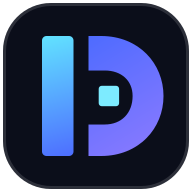
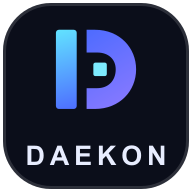
feat: a logó most mindenhol tartalmazza a DAEKON nevet
Preloader: gradiens DAEKON felirat a jel alatt. Inkbreak-manifesztó:
teljes lockup (jel + név) a puszta jel helyett. Favicon és alkalmazás-
ikonok: egymás alá rendezett lockup (split-D + DAEKON szó), ICO 16/32/48
rétegekkel újragenerálva.

🤖 Generated with Codebuff

Changed region(s): [[0.125, 0.125, 0.875, 0.875]]

diff --git a/src/App.tsx b/src/App.tsx
@@ -17,7 +17,7 @@ import {
   Tilt,
 } from "./components/fx/fx";
 import { useClock } from "./hooks/useClock";
-import { BrandMark, LogoMark } from "./brand/Logo";
+import { BrandMark } from "./brand/Logo";
 import { QuoteAssistant } from "./components/QuoteAssistant/QuoteAssistant";
 import { useScrollSpy } from "./hooks/useScrollSpy";
 import "./App.css";
@@ -327,7 +327,7 @@ export function App() {
         {/* -------------------------------------------- INK MANIFESTO */}
         <section className="inkbreak">
           <span className="inkbreak__mark" aria-hidden="true">
-            <LogoMark size={30} />
+            <BrandMark size={24} />
           </span>
           <h2 className="inkbreak__title">
             <Lines lines={[{ text: "A FORMA NEM" }, { text: "DÍSZÍTÉS.", className: "blue" }]} />

diff --git a/src/styles/fx.css b/src/styles/fx.css
@@ -216,6 +216,19 @@ html.has-cursor [role="button"] {
 @media (prefers-reduced-motion: reduce) {
   .preloader__logo { animation: none; }
 }
+.preloader__word {
+  font-family: var(--font-display);
+  font-weight: 700;
+  font-size: 17px;
+  line-height: 1;
+  letter-spacing: 0.5em;
+  text-indent: 0.5em;
+  margin-top: -6px;
+  background: var(--grad);
+  -webkit-background-clip: text;
+  background-clip: text;
+  color: transparent;
+}
 .preloader__num {
   font-family: var(--font-mono);
   font-size: 11px;

diff --git a/src/components/fx/fx.tsx b/src/components/fx/fx.tsx
@@ -468,6 +468,7 @@ export function Preloader() {
     <div className={`preloader${fade ? " is-done" : ""}`} aria-hidden="true">
       <div className="preloader__inner">
         <LogoMark size={58} className="preloader__logo" />
+        <span className="preloader__word">DAEKON</span>
         <span className="preloader__num">{n}%</span>
         <span className="preloader__bar">
           <i style={{ width: `${n}%` }} />
